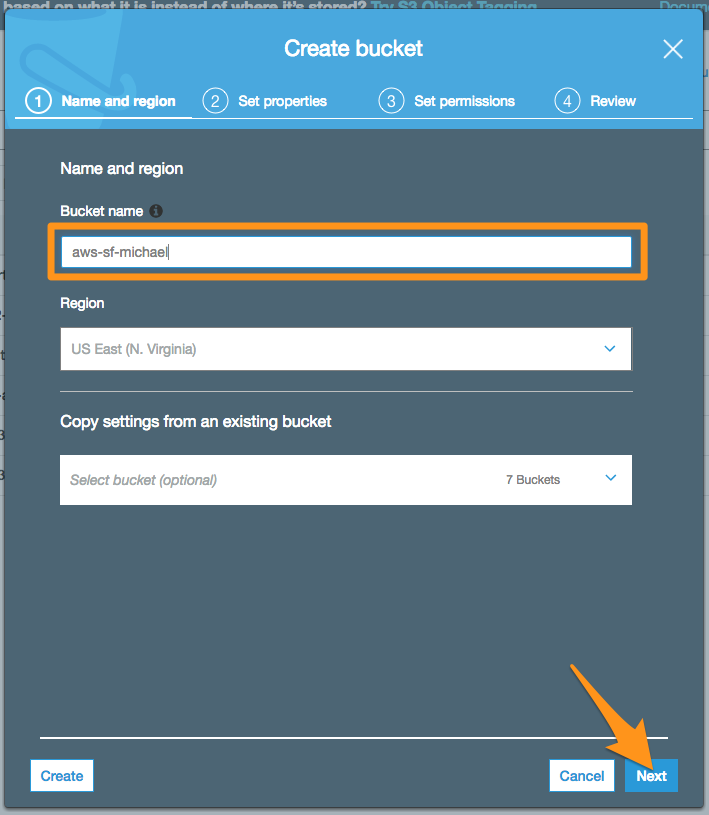
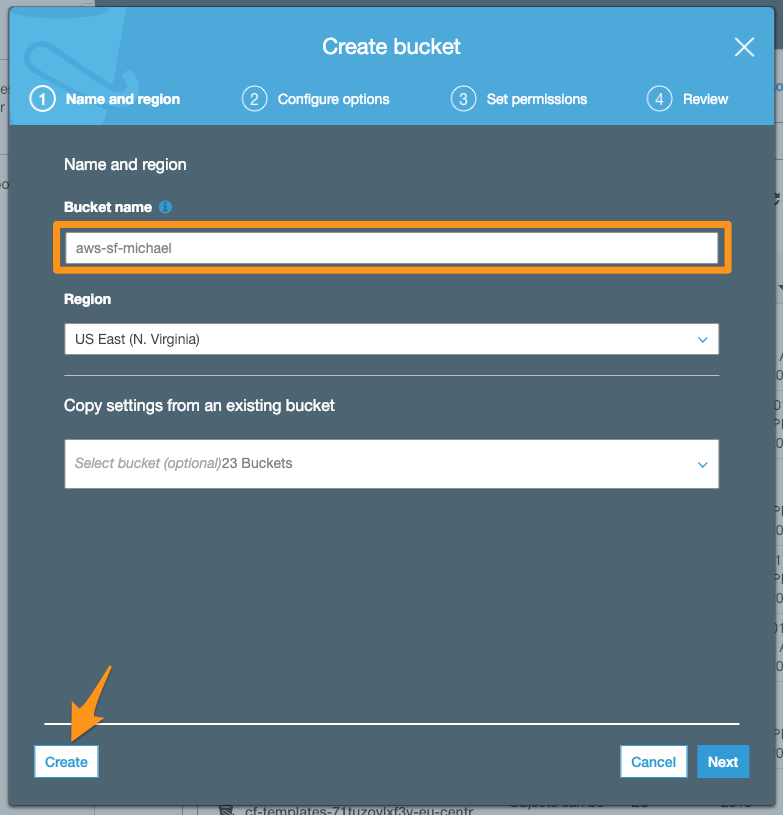
update s3 screenshots

diff --git a/exercise2.html b/exercise2.html
@@ -37,10 +37,8 @@
                 <ol>
                   <li>Visit <a href="https://console.aws.amazon.com/s3/home?region=us-east-1" target="blank">https://console.aws.amazon.com/s3/home?region=us-east-1</a></li>
                   <li>Click <strong>Create bucket</strong> button<br><img src="./exercise2_1.png" class="img-thumbnail img-responsive"></li>
-                  <li>Set a <strong>Bucket name</strong> and select US East (N. Virginia) <strong>Region</strong>. The bucket name must be globally unique across all AWS users in all regions (I added my name as a suffix). <br><img src="./exercise2_2.png" class="img-thumbnail img-responsive"></li>
-                  <li>Stay with the defaults<br><img src="./exercise2_3.png" class="img-thumbnail img-responsive"></li>
-                  <li>Stay with the defaults<br><img src="./exercise2_4.png" class="img-thumbnail img-responsive"></li>
-                  <li>Review<br><img src="./exercise2_5.png" class="img-thumbnail img-responsive"></li>
+                  <li>Set a <strong>Bucket name</strong> and select US East (N. Virginia) <strong>Region</strong>. The bucket name must be globally unique across all AWS users in all regions (I added my name as a suffix).</li>
+                  <li>Now, create the bucket<br><img src="./exercise2_2.png" class="img-thumbnail img-responsive"></li>
                 </ol>
               </div>
             </div>
